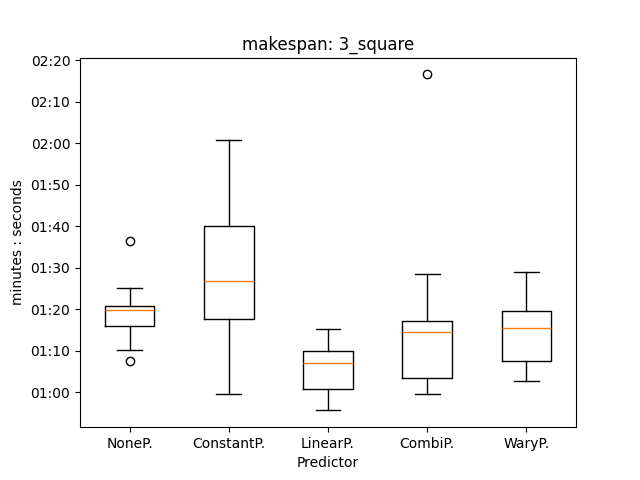
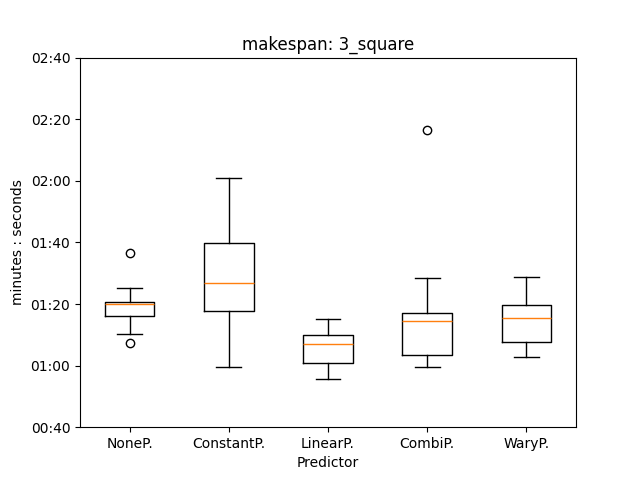
fixed y axis

diff --git a/6GB-0.5CPU/prod-synt-box-comb-2/boxplot.py b/6GB-0.5CPU/prod-synt-box-comb-2/boxplot.py
@@ -118,7 +118,7 @@ def main():
     plt.ylabel("minutes : seconds")
     plt.xlabel("Predictor")
     axes = plt.gca()
-    #axes.set_ylim([75000,150000])
+    axes.set_ylim([180000,525000])
     #plt.show()
     plt.savefig(f"{cwd}-boxplot.png")
 

diff --git a/6GB-0.5CPU/prod-synt-box-solo-2/boxplot.py b/6GB-0.5CPU/prod-synt-box-solo-2/boxplot.py
@@ -118,7 +118,7 @@ def main():
     plt.ylabel("minutes : seconds")
     plt.xlabel("Predictor")
     axes = plt.gca()
-    #axes.set_ylim([75000,150000])
+    axes.set_ylim([40000,160000])
     #plt.show()
     plt.savefig(f"{cwd}-boxplot.png")
 

diff --git a/6GB-0.5CPU/prod-synt-comb-2/scatter.py b/6GB-0.5CPU/prod-synt-comb-2/scatter.py
@@ -120,7 +120,7 @@ def main():
     plt.xlabel("number of input files")
     plt.legend()
     axes = plt.gca()
-    #axes.set_ylim([0,1080000])
+    axes.set_ylim([0,840000])
     #plt.show()
     plt.savefig(f"{cwd}-scatter.png")
 
